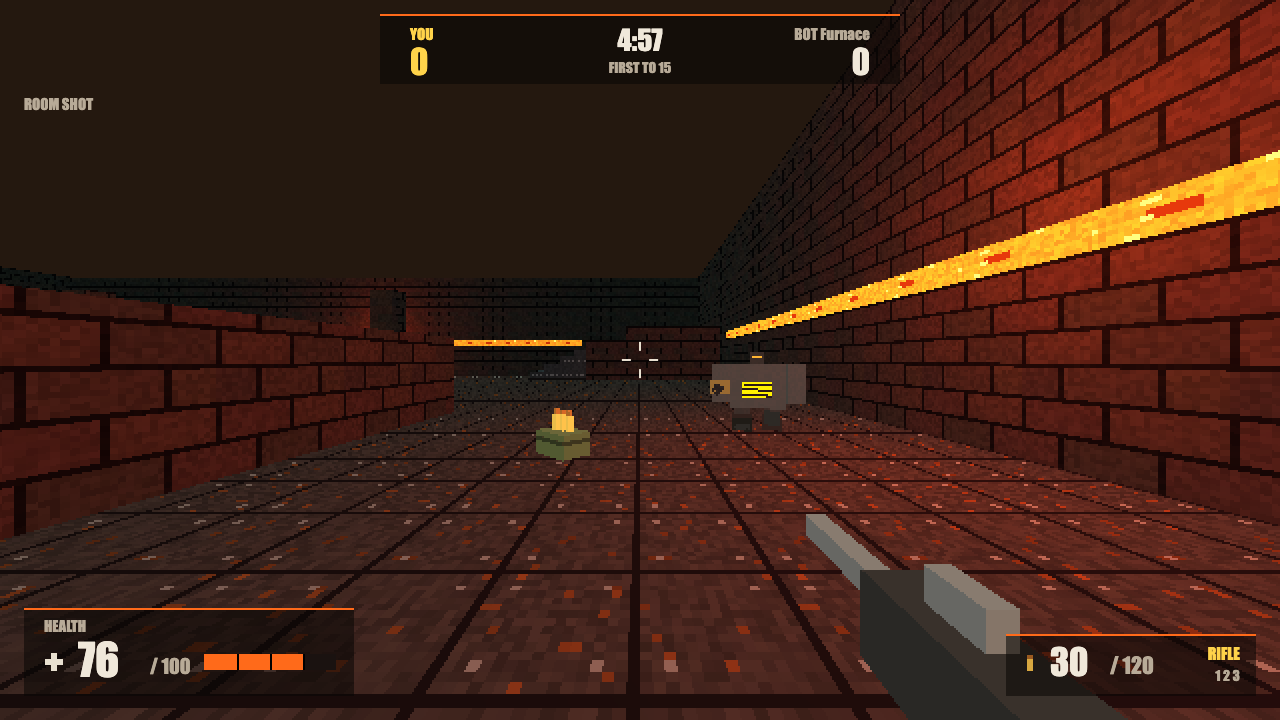
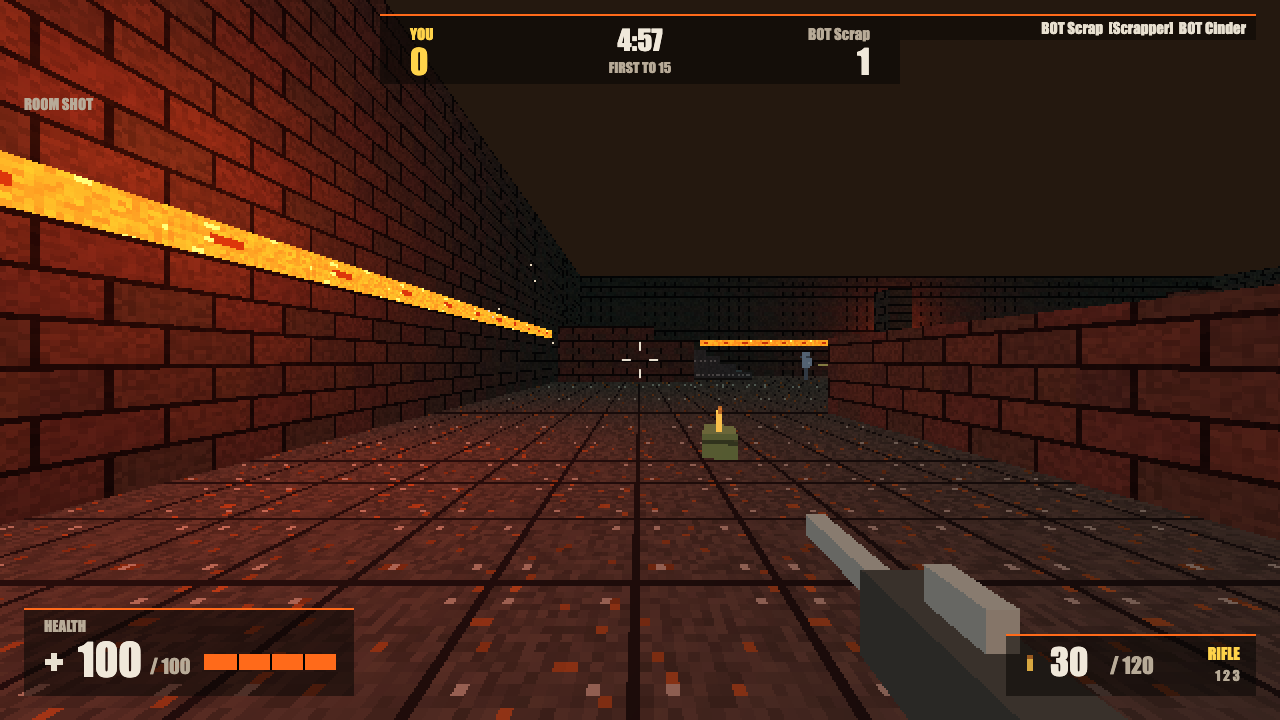
feat: serve the game over HTTPS at ai-games-qa.qpyou.cn:2201
The server reads TLS_CERT_FILE and TLS_KEY_FILE at start; the deploy points them at ~/slagpit/tls and checks the certificate is there.

Brief: design/game-brief.md

diff --git a/server/server.ts b/server/server.ts
@@ -4,7 +4,10 @@
 // inputs, the server moves everyone, resolves every shot (rewinding the others to what the
 // shooter saw), and sends snapshots.
 //   PORT (default 2201)  DIST (default ./dist)  HOST (default 0.0.0.0)
+//   TLS_CERT_FILE, TLS_KEY_FILE: both set, it serves HTTPS (and wss), read once at start
 import http from 'node:http';
+import https from 'node:https';
+import { readFileSync } from 'node:fs';
 import { readFile } from 'node:fs/promises';
 import path from 'node:path';
 import { WebSocketServer, type WebSocket } from 'ws';
@@ -92,7 +95,9 @@ function tickRoom(room: Room, dt: number): void {
 // ---- The page ------------------------------------------------------------------------
 const MIME: Record<string, string> = { '.html': 'text/html; charset=utf-8', '.js': 'text/javascript', '.css': 'text/css', '.json': 'application/json',
   '.png': 'image/png', '.svg': 'image/svg+xml', '.wav': 'audio/wav', '.mp3': 'audio/mpeg', '.ogg': 'audio/ogg', '.woff2': 'font/woff2' };
-const server = http.createServer(async (req, res) => {
+const tls = process.env.TLS_CERT_FILE && process.env.TLS_KEY_FILE
+  ? { cert: readFileSync(process.env.TLS_CERT_FILE), key: readFileSync(process.env.TLS_KEY_FILE) } : null;
+const handler: http.RequestListener = async (req, res) => {
   const url = new URL(req.url ?? '/', 'http://x');
   if (url.pathname === '/favicon.ico') { res.writeHead(204).end(); return; }
   const rel = decodeURIComponent(url.pathname === '/' ? '/index.html' : url.pathname);
@@ -103,7 +108,8 @@ const server = http.createServer(async (req, res) => {
     res.writeHead(200, { 'content-type': MIME[path.extname(file)] ?? 'application/octet-stream', 'cache-control': rel === '/index.html' ? 'no-cache' : 'max-age=3600' });
     res.end(body);
   } catch { res.writeHead(404).end('not found'); }
-});
+};
+const server = tls ? https.createServer(tls, handler) : http.createServer(handler);
 
 // ---- The sockets ----------------------------------------------------------------------
 const wss = new WebSocketServer({ server, path: '/ws', maxPayload: 64 * 1024 });
@@ -144,4 +150,4 @@ setInterval(() => {
   while (acc >= STEP) { for (const r of rooms.values()) tickRoom(r, STEP); acc -= STEP; }
 }, 1000 / TICK_HZ / 2);
 
-server.listen(PORT, HOST, () => console.log(`slagpit server on http://${HOST}:${PORT} serving ${DIST}`));
+server.listen(PORT, HOST, () => console.log(`slagpit server on ${tls ? 'https' : 'http'}://${HOST}:${PORT} serving ${DIST}`));
